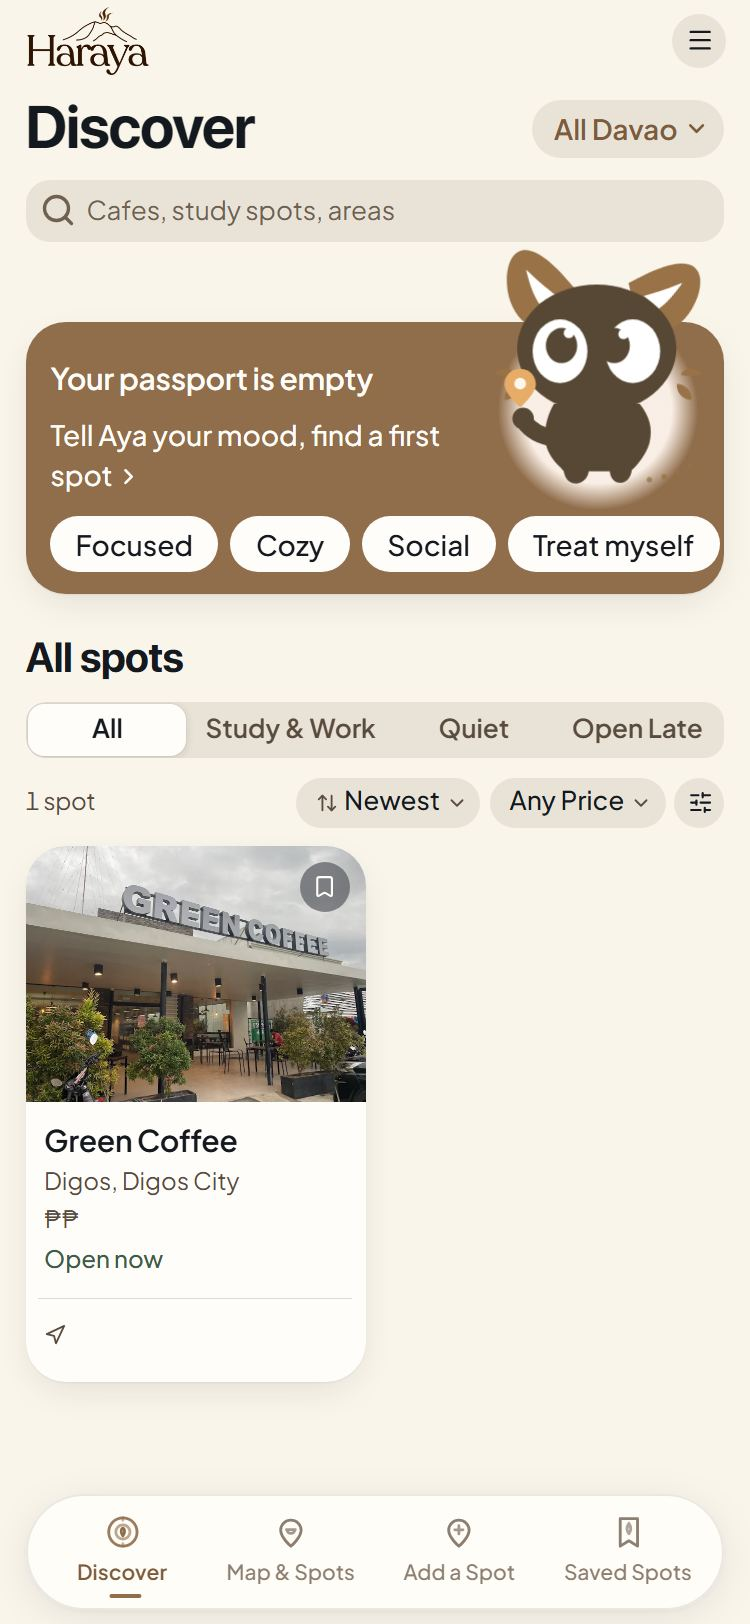
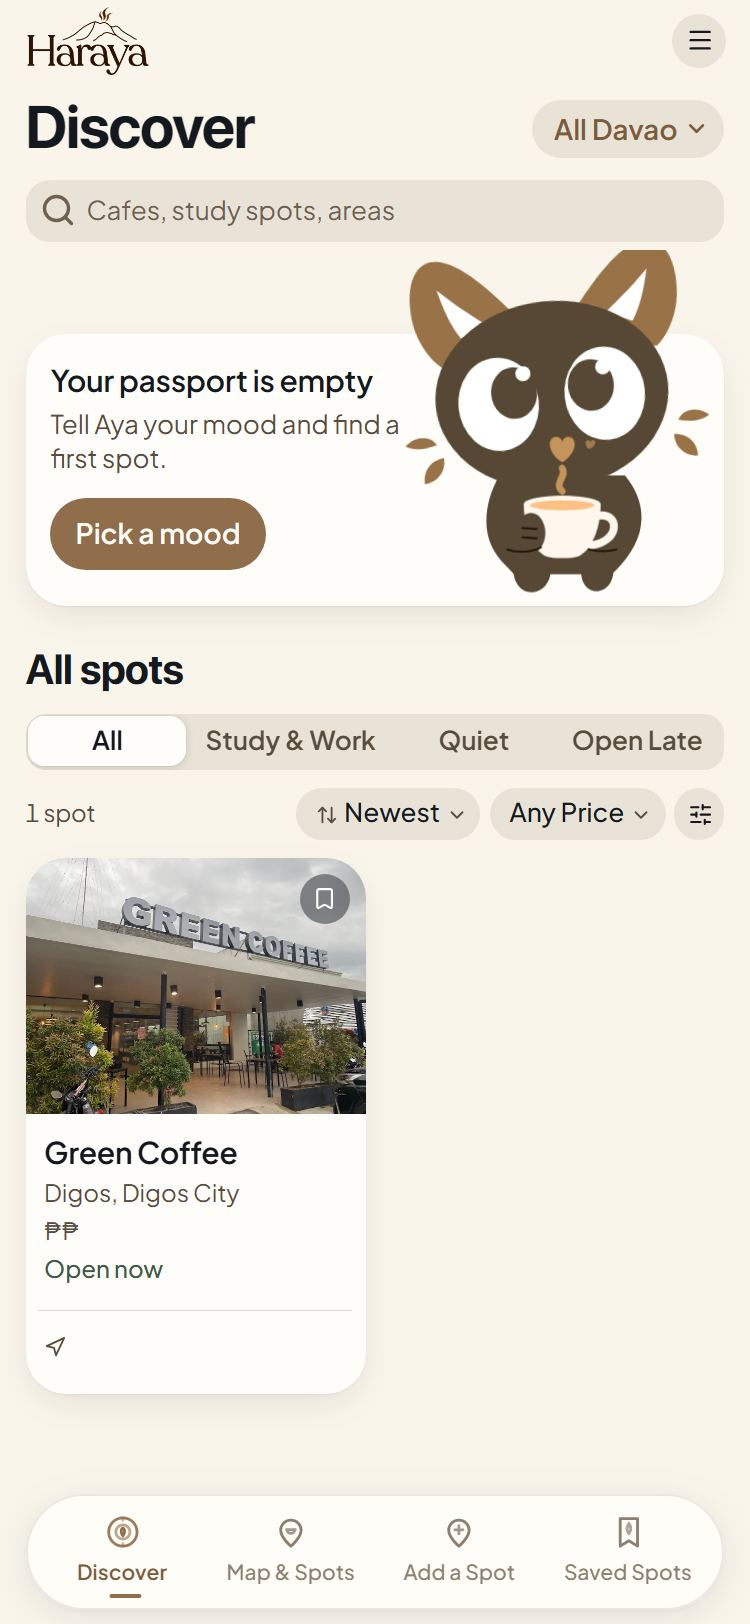
shesh

diff --git a/src/components/moodFinder/MoodCard.tsx b/src/components/moodFinder/MoodCard.tsx
@@ -1,17 +1,15 @@
 import React, { useEffect, useState } from 'react';
-import { ChevronRight } from 'lucide-react';
-import { MOODS, type MoodId } from './moods';
-import { AyaMascot, type AyaPose } from '../common/AyaMascot';
+import type { MoodId } from './moods';
+import { AyaMascot } from '../common/AyaMascot';
 import { elapsedMinutes, type ActiveFocusSession } from '../../hooks/useFocusSession';
 import { formatDuration } from '../../services/visitMapping';
 
 interface MoodCardProps {
-  /** Opens the finder; a mood chip opens it with that mood already chosen. */
+  /** Opens the mood finder (null: no mood chosen yet, the visitor picks one in the sheet). */
   onOpen: (mood: MoodId | null) => void;
   /** The running focus session, if any: the card turns into its shortcut. */
   focusSession?: ActiveFocusSession | null;
   onFinishFocus?: () => void;
-  onViewFocusSpot?: (cafeId: string) => void;
   /** No visits logged yet (and there are spots to stamp): Aya invites a first check-in. */
   passportEmpty?: boolean;
 }
@@ -32,23 +30,14 @@ export function moodCardState(focusRunning: boolean, late: boolean, passportEmpt
   return 'default';
 }
 
-const POSE: Record<CardState, AyaPose> = {
-  focus: 'focus',
-  late: 'content',
-  first: 'wander',
-  default: 'mood',
-};
-
-/** Late evening puts the moods that suit it first; the rest keep their order. */
-const LATE_FIRST: MoodId[] = ['focused', 'social', 'quick'];
-
 /**
- * Discover entry point for the mood finder. Aya breaks out of the card's top edge on a cream halo (so her roast
- * body reads against the tint card), and she is the card's biggest tap target: tapping her opens the finder, or
- * the running session. What she says follows real state only: a focus session in progress, late evening, or an
- * empty passport; otherwise the mood question.
+ * Discover entry point for the mood finder, laid out like a profile card: a title, one short line and a single pill
+ * button that opens the finder (the moods themselves live in the sheet). Aya stands at the right edge like a
+ * portrait, cut off by the card's bottom edge, with her ears breaking out above the card's top. She keeps her one
+ * `mood` pose (cup with heart steam) and no glow. The copy and button follow real state only: a focus session in
+ * progress, late evening, or an empty passport; otherwise the mood question.
  */
-export const MoodCard: React.FC<MoodCardProps> = ({ onOpen, focusSession = null, onFinishFocus, onViewFocusSpot, passportEmpty = false }) => {
+export const MoodCard: React.FC<MoodCardProps> = ({ onOpen, focusSession = null, onFinishFocus, passportEmpty = false }) => {
   const [now, setNow] = useState(() => new Date());
 
   useEffect(() => {
@@ -58,9 +47,6 @@ export const MoodCard: React.FC<MoodCardProps> = ({ onOpen, focusSession = null,
   }, []);
 
   const state = moodCardState(Boolean(focusSession), isLateEvening(now), passportEmpty);
-  const moods = state === 'late'
-    ? [...LATE_FIRST.map((id) => MOODS.find((mood) => mood.id === id)!), ...MOODS.filter((mood) => !LATE_FIRST.includes(mood.id))]
-    : MOODS;
 
   const copy = (() => {
     switch (state) {
@@ -68,90 +54,51 @@ export const MoodCard: React.FC<MoodCardProps> = ({ onOpen, focusSession = null,
         return {
           title: `Focusing at ${focusSession!.cafeName}`,
           line: `${formatDuration(elapsedMinutes(focusSession!.startedAt, now.getTime()))} so far`,
-          aya: `Aya is reading along. Open your focus session at ${focusSession!.cafeName}`,
+          action: 'Finish session',
+          aya: `Open your focus session at ${focusSession!.cafeName}`,
         };
       case 'late':
-        return { title: 'Late study tonight?', line: 'Ask Aya for a spot open late', aya: 'Ask Aya: open the mood finder' };
+        return { title: 'Late study tonight?', line: 'Aya knows which spots are still open.', action: 'Find a late spot', aya: 'Ask Aya: open the mood finder' };
       case 'first':
-        return { title: 'Your passport is empty', line: 'Tell Aya your mood, find a first spot', aya: 'Ask Aya: open the mood finder' };
+        return { title: 'Your passport is empty', line: 'Tell Aya your mood and find a first spot.', action: 'Pick a mood', aya: 'Ask Aya: open the mood finder' };
       default:
-        return { title: 'How are you feeling?', line: 'Ask Aya for more moods', aya: 'Ask Aya: open the mood finder' };
+        return { title: 'How are you feeling?', line: 'Tell Aya your mood and she picks spots that fit.', action: 'Pick a mood', aya: 'Ask Aya: open the mood finder' };
     }
   })();
 
-  const tapAya = () => (state === 'focus' ? onFinishFocus?.() : onOpen(null));
+  const act = () => (state === 'focus' ? onFinishFocus?.() : onOpen(null));
 
   return (
     <section
       aria-labelledby="mood-card-title"
       data-tour="mood"
-      className="relative mt-[40px] bg-[#906D4B] rounded-[20px] ios-card-shadow pt-3.5 pb-3.5"
+      className="relative mt-[46px] min-h-[136px] bg-[#FFFDF9] rounded-[20px] ios-card-shadow"
     >
-      <button
-        type="button"
-        onClick={tapAya}
-        aria-label={copy.aya}
-        className="absolute right-1 -top-[36px] z-20 w-[120px] h-[120px] aya-rise aya-tap"
-      >
-        {/* Cream halo behind the body: roast on tint is about 1.6:1, roast on cream is well above 3:1 */}
-        <span
-          aria-hidden="true"
-          className="absolute left-1/2 top-[30px] h-[100px] w-[100px] -translate-x-1/2 rounded-full bg-[radial-gradient(circle,rgba(255,246,238,0.95)_52%,rgba(255,246,238,0)_71%)]"
-        />
-        <AyaMascot key={state} pose={POSE[state]} size={120} alt="" className="relative" />
-      </button>
+      {/* Portrait frame: starts 42px above the card so the ears break out whole, and clips at the card's bottom edge
+          (same 20px corner) so Aya reads as standing behind it, like the photo in a profile card. Above the text
+          layer so she stays tappable; the frame itself lets taps through. */}
+      <div className="absolute z-10 right-0 -top-[42px] bottom-0 w-[160px] overflow-hidden rounded-br-[20px] pointer-events-none">
+        <button
+          type="button"
+          onClick={act}
+          aria-label={copy.aya}
+          className="absolute -left-[8px] top-0 w-[176px] h-[176px] pointer-events-auto aya-rise aya-tap"
+        >
+          <AyaMascot pose="mood" size={176} alt="" />
+        </button>
+      </div>
 
-      <div className="pl-4 pr-[124px] flex items-center gap-2 min-h-11">
-        <h2 id="mood-card-title" className="ios-headline text-[#FFFDF9] leading-snug">
+      <div className="relative pl-4 pr-[148px] pt-4 pb-4">
+        <h2 id="mood-card-title" className="ios-headline text-[#13191F] leading-snug">
           {copy.title}
         </h2>
-      </div>
-      <div className="px-4 -mt-1 pr-[124px]">
-        {state === 'focus' ? (
-          <p className="min-h-11 -my-2 flex items-center text-[14px] font-medium text-[#FFFDF9]/90">{copy.line}</p>
-        ) : (
-          <button
-            onClick={() => onOpen(null)}
-            className="block min-h-11 -my-2 py-2.5 text-left text-[14px] leading-snug font-medium text-[#FFFDF9] ios-press"
-          >
-            {copy.line}
-            {/* Inline so it stays with the last word when the line wraps */}
-            <ChevronRight className="inline w-4 h-4 ml-0.5 -mt-0.5" strokeWidth={2.5} />
-          </button>
-        )}
-      </div>
-
-      <div className="relative z-10 ios-shelf gap-2 px-4 pt-3" style={{ scrollPaddingInline: 16 }}>
-        {state === 'focus' ? (
-          <>
-            <button
-              onClick={onFinishFocus}
-              className="shrink-0 h-9 px-4 rounded-full bg-[#FFFDF9] text-[14px] font-semibold text-[#13191F] hover:bg-[#FAF5EB] ios-press"
-            >
-              Finish session
-            </button>
-            <button
-              onClick={() => onViewFocusSpot?.(focusSession!.cafeId)}
-              className="shrink-0 h-9 px-4 rounded-full bg-[#FFFDF9]/18 text-[14px] font-semibold text-[#FFFDF9] hover:bg-[#FFFDF9]/26 ios-press"
-            >
-              View spot
-            </button>
-          </>
-        ) : (
-          <>
-            {moods.map((mood) => (
-              <button
-                key={mood.id}
-                onClick={() => onOpen(mood.id)}
-                className="shrink-0 h-9 px-4 rounded-full bg-[#FFFDF9] text-[14px] font-medium text-[#13191F] hover:bg-[#FAF5EB] ios-press"
-              >
-                {mood.label}
-              </button>
-            ))}
-            {/* Trailing space so the last chip can scroll clear of the card edge */}
-            <span aria-hidden="true" className="shrink-0 w-2" />
-          </>
-        )}
+        <p className="mt-1 text-[13px] leading-snug text-[#594C3D]">{copy.line}</p>
+        <button
+          onClick={act}
+          className="mt-3 h-[36px] px-4 rounded-full bg-[#906D4B] text-[14px] font-semibold text-[#FFFDF9] hover:bg-[#7D5C3D] ios-press"
+        >
+          {copy.action}
+        </button>
       </div>
     </section>
   );

diff --git a/src/views/LandingView.tsx b/src/views/LandingView.tsx
@@ -18,9 +18,15 @@ interface LandingViewProps {
 
 const SCREEN = { width: 750, height: 1624 };
 
+/**
+ * Line-art iPhone traced from the brand mockup (Haraya Files/Haraya Coffee Spots/Green Coffee Digos/iphone mockup.png,
+ * a 147x293 outline): 5-unit stroke, 19-unit corners, a 41x11 Dynamic Island 13 units from the top. The source is
+ * too small to scale up as a bitmap, so it is redrawn as SVG in the same units and stays sharp at any size.
+ */
 const Phone: React.FC<{ src: string; alt: string; className?: string; eager?: boolean }> = ({ src, alt, className = '', eager = false }) => (
-  <div className={`rounded-[40px] bg-[#13191F] p-[7px] shadow-[0_28px_56px_-18px_rgba(19,25,31,0.45)] ${className}`}>
-    <div className="rounded-[33px] overflow-hidden bg-[#FAF5EB] aspect-[375/812]">
+  <div className={`relative aspect-[147/293] drop-shadow-[0_24px_28px_rgba(19,25,31,0.22)] ${className}`}>
+    {/* Screen: inset to the stroke's inner edge, with the matching inner corner radius */}
+    <div className="absolute inset-[1.7%_3.4%] overflow-hidden rounded-[10%/5%] bg-[#FAF5EB]">
       <img
         src={src}
         alt={alt}
@@ -31,6 +37,10 @@ const Phone: React.FC<{ src: string; alt: string; className?: string; eager?: bo
         className="w-full h-full object-cover object-top"
       />
     </div>
+    <svg viewBox="0 0 147 293" className="absolute inset-0 w-full h-full" aria-hidden="true">
+      <rect x="2.5" y="2.5" width="142" height="288" rx="19" fill="none" stroke="#13191F" strokeWidth="5" />
+      <rect x="53" y="13" width="41" height="11" rx="5.5" fill="#13191F" />
+    </svg>
   </div>
 );
 
@@ -159,15 +169,16 @@ export const LandingView: React.FC<LandingViewProps> = ({ onEnter }) => {
               aria-hidden="true"
               className="absolute left-1/2 bottom-0 -translate-x-1/2 w-[min(118vw,820px)] aspect-[2/1] rounded-t-full bg-[#906D4B]"
             />
+            {/* Below sm the phones scale with the screen (29vw, 44vw, 29vw minus the overlaps) so all three fit at 320px */}
             <div className="relative flex items-end justify-center">
-              <motion.div {...rise(0.25)} className="relative z-0 -mr-10 sm:-mr-8 mb-6 sm:mb-10 -rotate-6 origin-bottom-right">
-                <Phone src="/landing/map.jpg" alt="Map and Spots: every spot pinned across the Davao Region" className="w-[128px] sm:w-[200px] lg:w-[230px]" eager />
+              <motion.div {...rise(0.25)} className="relative z-0 -mr-[6vw] sm:-mr-8 mb-4 sm:mb-10 -rotate-6 origin-bottom-right">
+                <Phone src="/landing/map.jpg" alt="Map and Spots: every spot pinned across the Davao Region" className="w-[29vw] sm:w-[200px] lg:w-[230px]" eager />
               </motion.div>
               <motion.div {...rise(0.1)} className="relative z-10">
-                <Phone src="/landing/discover.jpg" alt="Discover: the mood card with Aya, spot categories and the spot list" className="w-[176px] sm:w-[250px] lg:w-[280px]" eager />
+                <Phone src="/landing/discover.jpg" alt="Discover: the mood card with Aya, spot categories and the spot list" className="w-[44vw] sm:w-[250px] lg:w-[280px]" eager />
               </motion.div>
-              <motion.div {...rise(0.4)} className="relative z-0 -ml-10 sm:-ml-8 mb-6 sm:mb-10 rotate-6 origin-bottom-left">
-                <Phone src="/landing/spot.jpg" alt="A spot sheet: photo, open now, directions, check in and hours" className="w-[128px] sm:w-[200px] lg:w-[230px]" eager />
+              <motion.div {...rise(0.4)} className="relative z-0 -ml-[6vw] sm:-ml-8 mb-4 sm:mb-10 rotate-6 origin-bottom-left">
+                <Phone src="/landing/spot.jpg" alt="A spot sheet: photo, open now, directions, check in and hours" className="w-[29vw] sm:w-[200px] lg:w-[230px]" eager />
               </motion.div>
             </div>
             {/* Aya stands just outside the arch's left foot, clear of the phones; there is no room for her below lg */}
@@ -227,7 +238,7 @@ export const LandingView: React.FC<LandingViewProps> = ({ onEnter }) => {
           <div className="max-w-6xl mx-auto px-4 sm:px-6 lg:px-8 grid gap-14 lg:grid-cols-2 lg:items-center">
             <div className="relative flex justify-center lg:order-2">
               <Phone src="/landing/passport.jpg" alt="Your Passport: focus hours, sanctuaries visited, and your diary" className="w-[230px] sm:w-[260px]" />
-              <AyaMascot pose="stamp" size={120} alt="" className="absolute -bottom-6 left-[calc(50%-190px)] sm:left-[calc(50%-210px)]" />
+              <AyaMascot pose="stamp" size={120} alt="" className="absolute -bottom-6 left-[max(0px,calc(50%-190px))] sm:left-[calc(50%-210px)]" />
             </div>
             <div className="lg:order-1">
               <h2 className="font-cooper text-[30px] sm:text-[40px] font-bold leading-[1.1] tracking-[-0.03em] text-balance">
@@ -264,7 +275,7 @@ export const LandingView: React.FC<LandingViewProps> = ({ onEnter }) => {
             <p className="mt-4 max-w-[52ch] text-[17px] leading-[1.55] text-[#594C3D]">
               Pick a city and Discover opens there. Locals add the quiet corners, and Haraya reviews every spot before it goes up.
             </p>
-            <ul className="mt-10 grid grid-cols-2 sm:grid-cols-3 gap-3">
+            <ul className="mt-10 grid grid-cols-1 min-[360px]:grid-cols-2 sm:grid-cols-3 gap-3">
               {CITIES.map((city) => (
                 <li key={city}>
                   <button

diff --git a/src/App.tsx b/src/App.tsx
@@ -510,7 +510,6 @@ export const App: React.FC = () => {
           onOpen={(mood) => setMoodSheet({ open: true, mood })}
           focusSession={activeFocus}
           onFinishFocus={() => setIsEndSessionOpen(true)}
-          onViewFocusSpot={openCafe}
           passportEmpty={allCafes.length > 0 && visitService.getUserVisits().length === 0}
         />
 

diff --git a/src/components/tour/tourSteps.ts b/src/components/tour/tourSteps.ts
@@ -27,7 +27,7 @@ export const TOUR_STEPS: TourStep[] = [
   },
   {
     target: 'mood',
-    text: 'Not sure where to go? Tap how you feel and Haraya suggests a cafe that fits, near you.',
+    text: 'Not sure where to go? Tell Aya how you feel and she suggests a cafe that fits, near you.',
     advance: 'next',
     aya: 'mood',
   },

diff --git a/journal/2026-09-29.md b/journal/2026-09-29.md
@@ -359,3 +359,38 @@ reference layout in Haraya's identity; real app screenshots in the phone mockups
   returns to the landing, `#/tab/map` skips it, Tagum City opens Discover scoped to Tagum. First pass had Aya
   overlapping the left hero phone on desktop; moved her outside the arch (lg and up). Evidence in
   `reports/ui-verification/2026-09-29-landing/`.
+- [2026-09-29] Landing phone frames now follow Lex's line-art iPhone mockup (`Haraya Files/.../iphone mockup.png`).
+  Measured the 147x293 outline (5 px side stroke, about 19 px corners, 41x11 Dynamic Island 13 px from the top) and
+  redrew it as SVG in `Phone` (`LandingView.tsx`) since the 504x360 source blurs at hero size; screenshots sit inside
+  the stroke with the matching inner radius. Verified: build passed, oxlint clean, tests 116/116, landing drive at
+  320 to 1920 with 0 overflow, 0 page errors, 0 unloaded images, flows unchanged. Evidence in
+  `reports/ui-verification/2026-09-29-landing-mockup/`.
+- [2026-09-29] MoodCard Aya per Lex's reference: one `mood` pose (cup with heart steam) in every card state, and the
+  cream halo behind her removed; the focus, late and first-visit states still change the copy only. `POSE` map and
+  halo span dropped from `MoodCard.tsx`, DESIGN.md mascot line updated, landing screenshots re-captured so the
+  Discover phone matches. Verified: build passed, oxlint clean, tests 116/116, 375px capture shows Aya on the tint
+  with no glow.
+
+## [2026-09-29] Landing page: phone layout
+
+- [09:10] `src/views/LandingView.tsx`, three class changes. (1) Hero phones used fixed widths (128/176/128 px with
+  40 px overlaps) that did not fit phones: at 320 px the side phones ran from x=-46 and to x=366. Below `sm` they
+  now scale with the screen (29vw, 44vw, 29vw, 6vw overlaps); `sm` and up keep the old sizes. (2) City buttons
+  are one column under 360 px so "Davao City" no longer wraps inside a half-width button. (3) Aya in How it works
+  is clamped to `left-[max(0px,calc(50%-190px))]` so she is not cut at the left edge. The pending Phone outline
+  edit already in the working tree was left as it was.
+- Checked, not changed: landing buttons render about 38 px tall on phones because of the global density scale in
+  `src/index.css` (root 14 px, `--spacing` 0.225rem); the touch floor rule there grows every hit area to 40 px.
+- Verified: Playwright at 320, 375, 430, 768 and 1440 px: 0 px overflow against the configured viewport, no
+  image, heading, text or button past either edge; scrolled pass at 320 and 375 px loads all 5 landing images,
+  city buttons all one line (44 px). `tsc -b` exit 0, `oxlint src` exit 0, `npm test` 116/116, build ok, dash
+  scan clean. Evidence in `reports/ui-verification/2026-09-29-landing-mobile/` (before and after shots).
+- [2026-09-29] MoodCard rebuilt as a profile-style card per Lex's reference: surface card with title, one line and a
+  single tint pill ("Pick a mood", "Find a late spot", or "Finish session" during a focus session) instead of the
+  mood chips; the moods now live only in the finder sheet. Aya (`mood` pose, 176px) stands at the right in a frame
+  that starts 42px above the card and clips at its bottom edge, so her ears break out and she reads as standing behind
+  the card. `onViewFocusSpot` prop removed (the focus banner still leads to the session). Tour step copy updated.
+  First pass clipped the ear tips and leaves and left Aya untappable under the text layer; frame raised, widened and
+  put above the text. Verified at 320, 375, 1280: 0 overflow, button and Aya both open the finder, 0 page errors;
+  build passed, oxlint clean, tests 116/116. Landing screenshots re-captured. Evidence in
+  `reports/ui-verification/2026-09-29-mood-card-profile/`.

diff --git a/DESIGN.md b/DESIGN.md
@@ -37,10 +37,11 @@ The tokens live in `src/index.css`; this file is the contract behind them.
 - Mascot: Aya, drawn from the official master art (`Haraya Files/MASCOT/FULL BODY.png`) as flat SVG in
   `AyaMascot`, using only the master palette (roast #574835, tan #997247, cream #FFF6EE, steam #E7AC67, coffee
   #FFC183, ink #1D1203). No outlines, gradients or mouth. One pose per surface so she reads as a character, not a
-  sticker: `welcome` (WelcomeModal, first tour step), `mood` (Discover mood card, where she rises out of the
-  card's top edge on a soft cream glow so her roast body reads on the tint card, and Mood Finder idle; tapping her
-  opens the finder. The card follows real state, one at a time: a running focus session shows `focus` with Finish
-  and View spot, late evening (8 PM to 4 AM) shows `content` with late moods first, an empty passport shows `wander`), `empty` (cafe, bean, saved, visited and mood
+  sticker: `welcome` (WelcomeModal, first tour step), `mood` (Discover mood card, a profile-style card on `--ios-surface`: title, one line and a single tint pill
+  that opens the finder, no mood chips; Aya stands at the right like a portrait, clipped by the card's bottom edge with
+  her ears breaking out above its top, no glow, and she keeps this one pose in every card state while the copy and
+  button follow real state: focus session in progress (Finish session), late evening, empty passport; tapping her
+  opens the finder too; also Mood Finder idle), `empty` (cafe, bean, saved, visited and mood
   no-match empty states, Add a Spot title), `welcome` again on the live navigation arrival card; `drops` belongs to the
   hidden Roast Drops view. The sanctuary passport adds six poses, one emotion each: `focus` (calm, half-lidded
   over an open book; peeks over the floating focus banner), `arrive` (delight, both paws up with steam sparkles;
@@ -146,6 +147,9 @@ Color is information. The tint marks the one active or primary thing in a region
   because the order matters), six city buttons that open Discover scoped to that city, a River Styx closing card
   with Aya `clink`, then the shared footer. Aya poses: `welcome` beside the hero arch (lg and up), `stamp` by the
   passport phone, `clink` in the closing card.
+- Phone frame: the brand's line-art iPhone (`Haraya Files/Haraya Coffee Spots/Green Coffee Digos/iphone mockup.png`),
+  redrawn as SVG in its own 147x293 units (5-unit River Styx stroke, 19-unit corners, 41x11 Dynamic Island) because
+  the 504x360 source blurs when scaled; a soft drop shadow lifts it off the arch.
 - Phone screens are real captures from the running app (`public/landing/*.jpg`, 375x812 at 2x, JPEG 78). Re-capture
   them when those screens change. No store badges (there is no native app), no eyebrow labels, no counts, no
   testimonials. In-page links scroll with buttons, never `#anchors`, because the hash is the app's router.

diff --git a/docs/CODE_MAP.md b/docs/CODE_MAP.md
@@ -1,6 +1,6 @@
 # CODE_MAP: Haraya Agent Navigation Map
 
-Generated 2026-09-29 : commit 343150d : fingerprint 9b1619fb85ee1131
+Generated 2026-09-29 : commit ea88337 : fingerprint 3e3268d2283395d9
 
 Regenerate with `npm run map:code`; verify staleness with `npm run map:code:check`.
 Never hand-edit: the generator owns this file.
@@ -12,7 +12,7 @@ All Davao Region content: cafes, roasteries, bean lots, drop batches, trails, an
 - `index.html` (30 lines) : . module: index.html
 - `scripts/generate-code-map.mjs` (212 lines) : One-line purpose per file, inferred from its path and leading doc comment.
 - `scripts/verify-google-auth.mjs` (90 lines) : scripts module: verify-google-auth
-- `src/App.tsx` (780 lines) : Older links: the roaster portal is now the Place Portal.
+- `src/App.tsx` (779 lines) : Older links: the roaster portal is now the Place Portal.
   - L61 : SharedList
   - L87 : App
 - `src/index.css` (825 lines) : src entry point
@@ -104,7 +104,7 @@ All Davao Region content: cafes, roasteries, bean lots, drop batches, trails, an
 
 ## src/components/moodFinder/
 
-- `src/components/moodFinder/MoodCard.tsx` (159 lines) : Late evening, when "open late" matters: 8 PM to 4 AM on the device clock.
+- `src/components/moodFinder/MoodCard.tsx` (106 lines) : Late evening, when "open late" matters: 8 PM to 4 AM on the device clock.
 - `src/components/moodFinder/moodCardState.test.ts` (34 lines) : src/components/moodFinder module: moodCardState.test
 - `src/components/moodFinder/MoodFinderSheet.tsx` (352 lines) : The mood finder: say how you feel and what you need, get three explained picks and a route.
   - L16 : MoodFinderSheetProps
@@ -257,9 +257,9 @@ All Davao Region content: cafes, roasteries, bean lots, drop batches, trails, an
   - L21 : AddSpotViewProps
   - L305 : AddSpotView
 - `src/views/CommunityView.tsx` (74 lines) : Cup Check community feed: one-to-three column masonry of today's brews.
-- `src/views/LandingView.tsx` (319 lines) : Landing page shown at the bare URL (see `isLandingEntry` in utils/router.ts). It showcases the app with real
+- `src/views/LandingView.tsx` (330 lines) : Landing page shown at the bare URL (see `isLandingEntry` in utils/router.ts). It showcases the app with real
   - L14 : LandingViewProps
-  - L94 : LandingView
+  - L104 : LandingView
 - `src/views/LegalView.tsx` (206 lines) : Privacy Notice and Terms. Statements of fact describe what the code does today; anything that needs a
 - `src/views/LoginView.tsx` (325 lines) : What the page is doing: the two account modes, the two email-link flows, and the new-password form.
   - L12 : LoginMode
